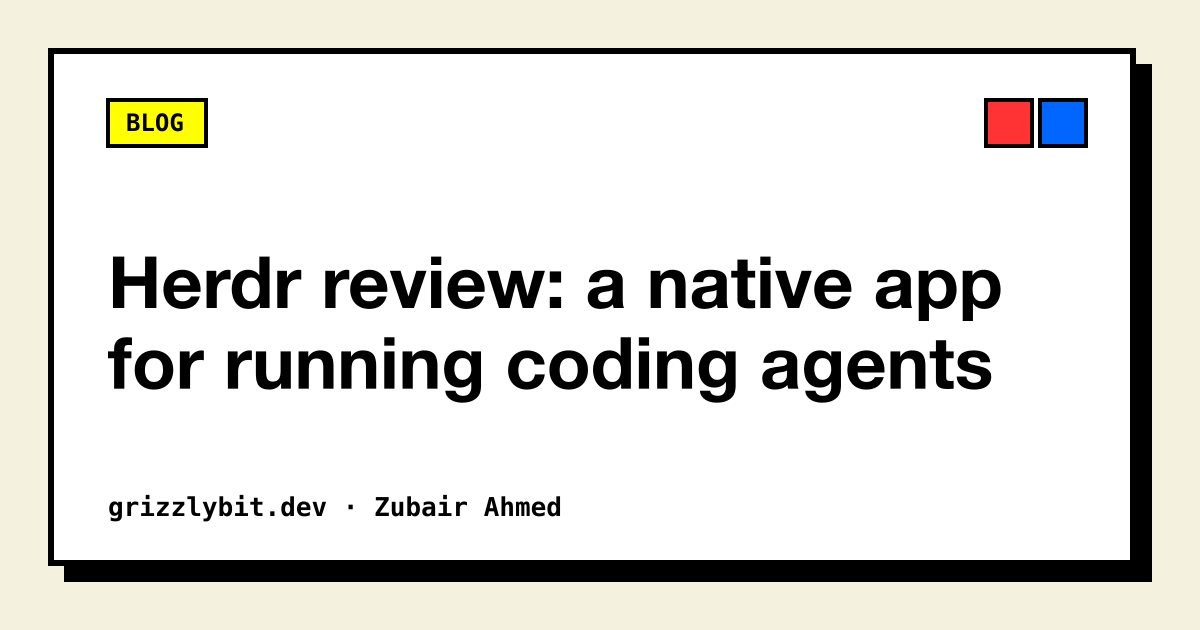
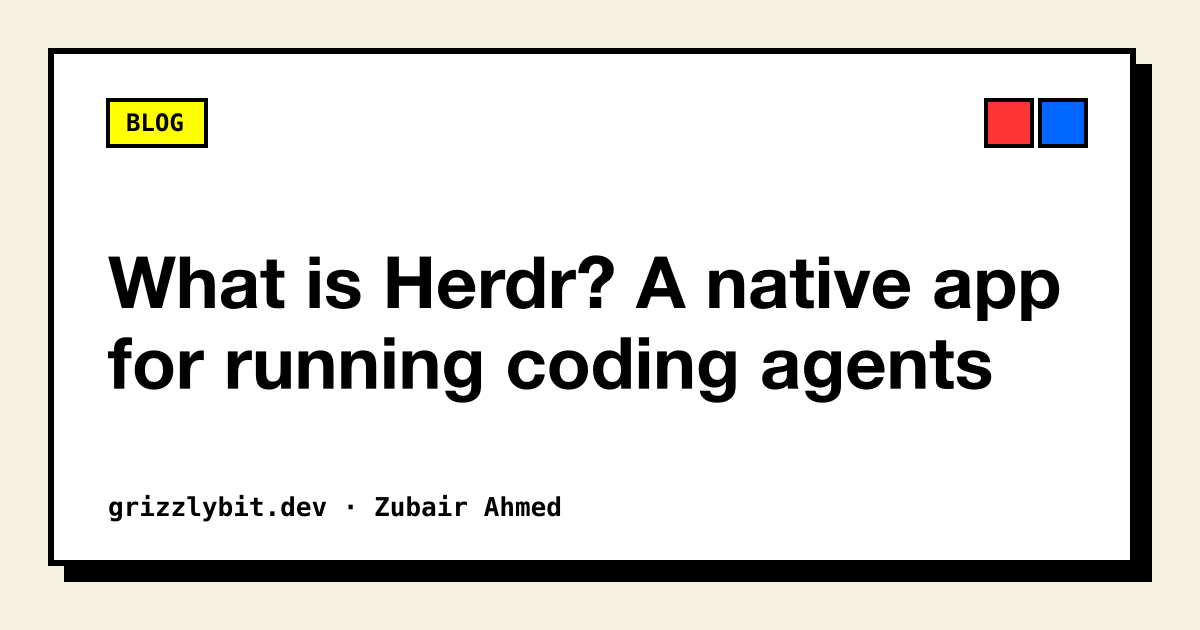
feat: IndexNow pings after production deploys, emoji-free structured data titles
- Submit recently changed sitemap URLs to IndexNow from a GitHub workflow
  once Vercel reports a successful production deploy
- Strip emoji from JSON-LD headlines, breadcrumb name and image alt text
- Herdr post: answer-first opening, FAQ section, sharper description

Changed region(s): [[0.0925, 0.3921, 0.8942, 0.5127]]

diff --git a/scripts/indexnow.js b/scripts/indexnow.js
@@ -1,0 +1,72 @@
+#!/usr/bin/env node
+/**
+ * Pings IndexNow (Bing, Yandex, Seznam, Naver...) with recently changed URLs.
+ *
+ *   node scripts/indexnow.js              submit
+ *   node scripts/indexnow.js --dry-run    print URLs only
+ *   node scripts/indexnow.js --self-test  check the sitemap filter
+ *
+ * Run by .github/workflows/indexnow.yml after a successful Vercel production
+ * deploy, so every submitted URL is already live. Reads the live sitemap and
+ * submits entries whose <lastmod> is within the last DAYS days. <lastmod>
+ * comes from frontmatter, so bump `lastModified` when editing a post.
+ *
+ * ponytail: resubmits the same URLs on every deploy inside the window; diff
+ * against the previous deploy's sitemap if that ever gets rate limited.
+ */
+const assert = require('assert');
+
+const SITE = 'https://www.grizzlybit.dev';
+const KEY = 'ae4eeb39423ddff4632786a5cd80abf4'; // public/<KEY>.txt
+const DAYS = 7;
+
+const recentUrls = (xml, now = Date.now(), days = DAYS) =>
+  [...xml.matchAll(/<url>([\s\S]*?)<\/url>/g)]
+    .map(([, entry]) => ({
+      loc: entry.match(/<loc>([^<]+)<\/loc>/)?.[1],
+      lastmod: Date.parse(entry.match(/<lastmod>([^<]+)<\/lastmod>/)?.[1]),
+    }))
+    .filter(({ loc, lastmod }) => loc && now - lastmod <= days * 864e5)
+    .map(({ loc }) => loc);
+
+const selfTest = () => {
+  const now = Date.parse('2026-11-10T00:00:00Z');
+  const xml = `
+    <url><loc>${SITE}/new</loc><lastmod>2026-11-07T00:00:00+04:00</lastmod></url>
+    <url><loc>${SITE}/old</loc><lastmod>2025-01-01</lastmod></url>
+    <url><loc>${SITE}/no-date</loc></url>`;
+  assert.deepStrictEqual(recentUrls(xml, now), [`${SITE}/new`]);
+  console.log('[indexnow] self-test ok');
+};
+
+const main = async () => {
+  if (process.argv.includes('--self-test')) return selfTest();
+
+  const res = await fetch(`${SITE}/sitemap-0.xml`);
+  if (!res.ok) throw new Error(`sitemap fetch failed: ${res.status}`);
+  const urlList = recentUrls(await res.text());
+  console.log(`[indexnow] ${urlList.length} recent URL(s)`, urlList);
+  if (!urlList.length || process.argv.includes('--dry-run')) return;
+
+  const ping = await fetch('https://api.indexnow.org/indexnow', {
+    method: 'POST',
+    headers: { 'Content-Type': 'application/json; charset=utf-8' },
+    body: JSON.stringify({
+      host: new URL(SITE).host,
+      key: KEY,
+      keyLocation: `${SITE}/${KEY}.txt`,
+      urlList,
+    }),
+  });
+  // 200 = accepted, 202 = accepted, key validation pending.
+  // 429 = same URLs sent too often (redeploys inside the window); not fatal.
+  if (ping.status === 429) return console.warn('[indexnow] rate limited (429)');
+  if (!ping.ok)
+    throw new Error(`indexnow ${ping.status}: ${await ping.text()}`);
+  console.log(`[indexnow] submitted (${ping.status})`);
+};
+
+main().catch((e) => {
+  console.error('[indexnow]', e.message);
+  process.exit(1);
+});

diff --git a/src/pages/blog/[slug].tsx b/src/pages/blog/[slug].tsx
@@ -3,7 +3,9 @@ import { TagLink } from '@/components/blog/TagLink';
 import CustomHead from '@/components/CustomHead';
 import Layout from '@/components/Layout';
 import RelatedPosts from '@/components/RelatedPosts';
-import BlogPostingSchema from '@/components/schemas/BlogPostingSchema';
+import BlogPostingSchema, {
+  plainHeadline,
+} from '@/components/schemas/BlogPostingSchema';
 import BreadcrumbListSchema from '@/components/schemas/BreadcrumbListSchema';
 import {
   Breadcrumb,
@@ -139,7 +141,7 @@ export default function BlogPost({
     { name: 'Home', url: 'https://www.grizzlybit.dev' },
     { name: 'Blog', url: 'https://www.grizzlybit.dev/blog' },
     {
-      name: frontmatter.title,
+      name: plainHeadline(frontmatter.title),
       url: `https://www.grizzlybit.dev/blog/${slug}`,
     },
   ];
@@ -155,7 +157,7 @@ export default function BlogPost({
         ogImageWidth={1200}
         ogImageHeight={630}
         ogImageType="image/png"
-        ogImageAlt={frontmatter.title}
+        ogImageAlt={plainHeadline(frontmatter.title)}
         publishedTime={frontmatter.publishedAt}
         modifiedTime={frontmatter.lastModified}
         author={author}
@@ -247,7 +249,7 @@ export default function BlogPost({
                   src={cover.src}
                   width={cover.width}
                   height={cover.height}
-                  alt={frontmatter.title}
+                  alt={plainHeadline(frontmatter.title)}
                   // LCP: in the SSR HTML, so eager + high priority beats a
                   // preload (`priority` is deprecated in Next 16).
                   loading="eager"

diff --git a/src/components/schemas/BlogPostingSchema.tsx b/src/components/schemas/BlogPostingSchema.tsx
@@ -16,6 +16,16 @@ interface BlogPostingSchemaProps {
   };
 }
 
+// Emoji in titles are decoration; keep them out of structured-data headlines.
+export const plainHeadline = (title: string) =>
+  title
+    .replace(
+      /[\p{Extended_Pictographic}\p{Emoji_Modifier}\p{Regional_Indicator}\u{FE0F}\u{200D}\u{20E3}\u{E0020}-\u{E007F}]/gu,
+      '',
+    )
+    .replace(/\s+/g, ' ')
+    .trim();
+
 const BlogPostingSchema = ({
   title,
   description,
@@ -50,7 +60,7 @@ const BlogPostingSchema = ({
     '@type': 'BlogPosting',
     '@id': `${url}#article`,
     isPartOf: { '@id': `${site}/#website` },
-    headline: title,
+    headline: plainHeadline(title),
     description,
     image: images,
     datePublished: toDateTime(publishedAt),

diff --git a/src/components/schemas/BlogSchema.tsx b/src/components/schemas/BlogSchema.tsx
@@ -1,5 +1,7 @@
 import Head from 'next/head';
 
+import { plainHeadline } from './BlogPostingSchema';
+
 const SITE = 'https://www.grizzlybit.dev';
 
 interface BlogSchemaProps {
@@ -37,7 +39,7 @@ const BlogSchema = ({ name, description, posts }: BlogSchemaProps) => {
       '@type': 'BlogPosting',
       '@id': `${SITE}/blog/${slug}#article`,
       url: `${SITE}/blog/${slug}`,
-      headline: title,
+      headline: plainHeadline(title),
     })),
   };
 

diff --git a/CLAUDE.md b/CLAUDE.md
@@ -9,6 +9,7 @@ Personal portfolio and blog website for Zubair Ahmed (grizzlybit.dev) built with
 ## Commands
 
 ### Development
+
 ```bash
 npm run dev          # Start development server on localhost:3000
 npm run build        # Build for production
@@ -17,12 +18,15 @@ npm run lint         # Run ESLint
 ```
 
 ### Type Checking
+
 ```bash
 npx tsc --noEmit     # Run TypeScript compiler without emitting files
 ```
 
 ### Code Quality
+
 The project uses Husky with lint-staged to automatically format code on commit:
+
 - TypeScript files: Type check + ESLint + Prettier
 - JavaScript files: ESLint + Prettier
 - Markdown/JSON files: Prettier
@@ -30,6 +34,7 @@ The project uses Husky with lint-staged to automatically format code on commit:
 ## Architecture
 
 ### Pages Router Structure
+
 - **Homepage (`src/pages/index.tsx`)**: Statically generated (`getStaticProps`) with multiple sections (Banner, Services, AboutMe, BlogSection, Toolbelt, Portfolio, Companies, Testimonials, Contact)
 - **Blog Posts (`src/pages/blog/[slug].tsx`)**: Static generation using MDX files from `src/posts/`
 - **Portfolio Pages (`src/pages/portfolio/*.tsx`)**: Individual static pages for each project
@@ -38,16 +43,19 @@ The project uses Husky with lint-staged to automatically format code on commit:
   - `/api/statistics` - Dynamic statistics endpoint
 
 ### Content Management
+
 - **Blog posts**: Written in MDX format in `src/posts/`, processed using `mdx-bundler` with gray-matter for frontmatter
 - **Static data**: Stored in `data/` directory (badges, companies, portfolio items, testimonials, toolbelt, social links)
 - **Post utilities (`src/util/posts.ts`)**: Functions for reading MDX files, extracting frontmatter, and bundling with rehype-prism-plus (syntax highlighting) and remark-gfm (GitHub Flavored Markdown)
 
 ### Key Components
+
 - **Layout (`src/components/Layout.tsx`)**: Wraps all pages with Header/Footer and an opacity-only Motion fade on client navigations (first render stays visible for SEO)
 - **Section Components**: Self-contained components for each homepage section (AboutMe, Banner, BlogSection, Companies, Contact, Portfolio, Services, Statistics, Testimonials, Toolbelt)
 - **CustomHead**: SEO metadata management with next-seo
 
 ### Styling
+
 - Tailwind CSS 4, configured CSS-first in `src/styles/globals.css` (`@theme`, `@theme inline`); no `tailwind.config.js`
 - shadcn/ui (`components.json`, style `radix-nova`, `rsc: false`); primitives in `src/components/ui/`, add more with `npx shadcn@latest add <name>`
 - tweakcn "neo-brutalism" theme: tokens in `:root` / `.dark` in `globals.css` (radius 0, 2px borders, hard offset shadows; DM Sans + Space Mono via `next/font` in `_app.tsx`)
@@ -57,20 +65,32 @@ The project uses Husky with lint-staged to automatically format code on commit:
 - Hero (`Banner.tsx`, `Statistics.tsx`) uses shadcn Card/Badge/Tooltip; only the backdrop, icon inversion and stat grid are `.hero*` classes in `globals.css`
 
 ### External Integrations
+
 - **Analytics**: Google Analytics 4 (gtag.js bootstrapped in `src/util/ga.ts`) and Hotjar
 - **Email**: AWS SES via nodemailer for contact form (`src/util/mailer.ts`)
 - **SEO**: next-sitemap for automatic sitemap generation (postbuild script)
 
 ### Environment Variables
+
 Required environment variables (see `example.env`):
+
 - `NEXT_PUBLIC_GA_TRACKING_ID` - Google Analytics tracking ID
 - `AWS_REGION`, `AWS_ACCESS_KEY_ID`, `AWS_SECRET_ACCESS_KEY` - AWS credentials for SES email service
 
 ### MDX Blog Post Structure
+
 Blog posts require frontmatter with:
+
 - `title`: Post title
 - `publishedAt`: Publication date
 - `description`: Meta description
 - `summary`: Short summary
 - `image`: Cover image path
 - `showOnHome`: Boolean to display on homepage
+- `lastModified` (optional): bump when editing a post; drives sitemap `lastmod`, `dateModified` and IndexNow pings
+
+After adding a post, add its cover spec to `COVERS` in `scripts/generate-og.js` and run `node scripts/generate-og.js`.
+
+### IndexNow
+
+`.github/workflows/indexnow.yml` runs `scripts/indexnow.js` after each successful Vercel production deploy, submitting sitemap URLs with `lastmod` in the last 7 days. Key file: `public/ae4eeb39423ddff4632786a5cd80abf4.txt`.
